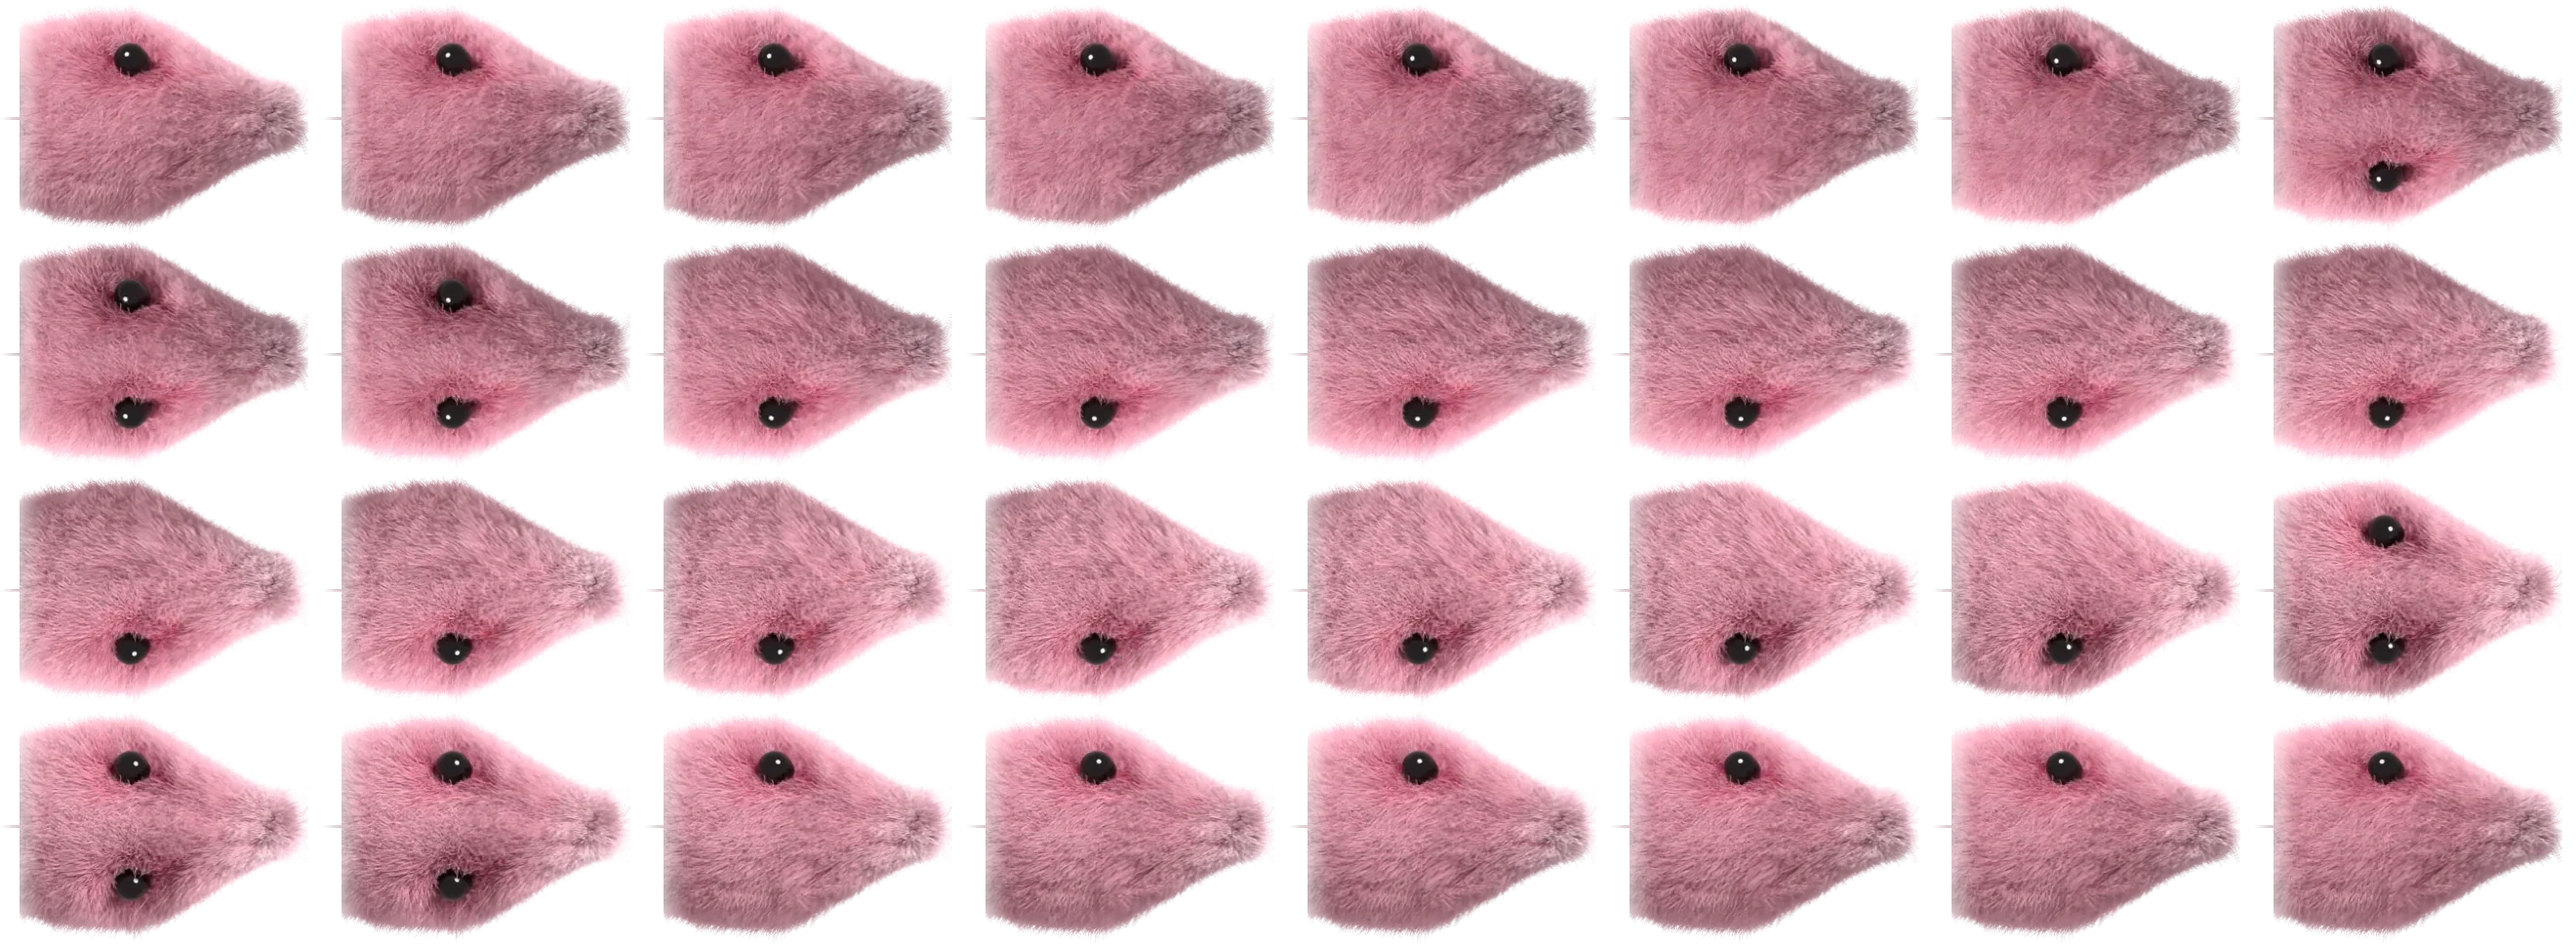
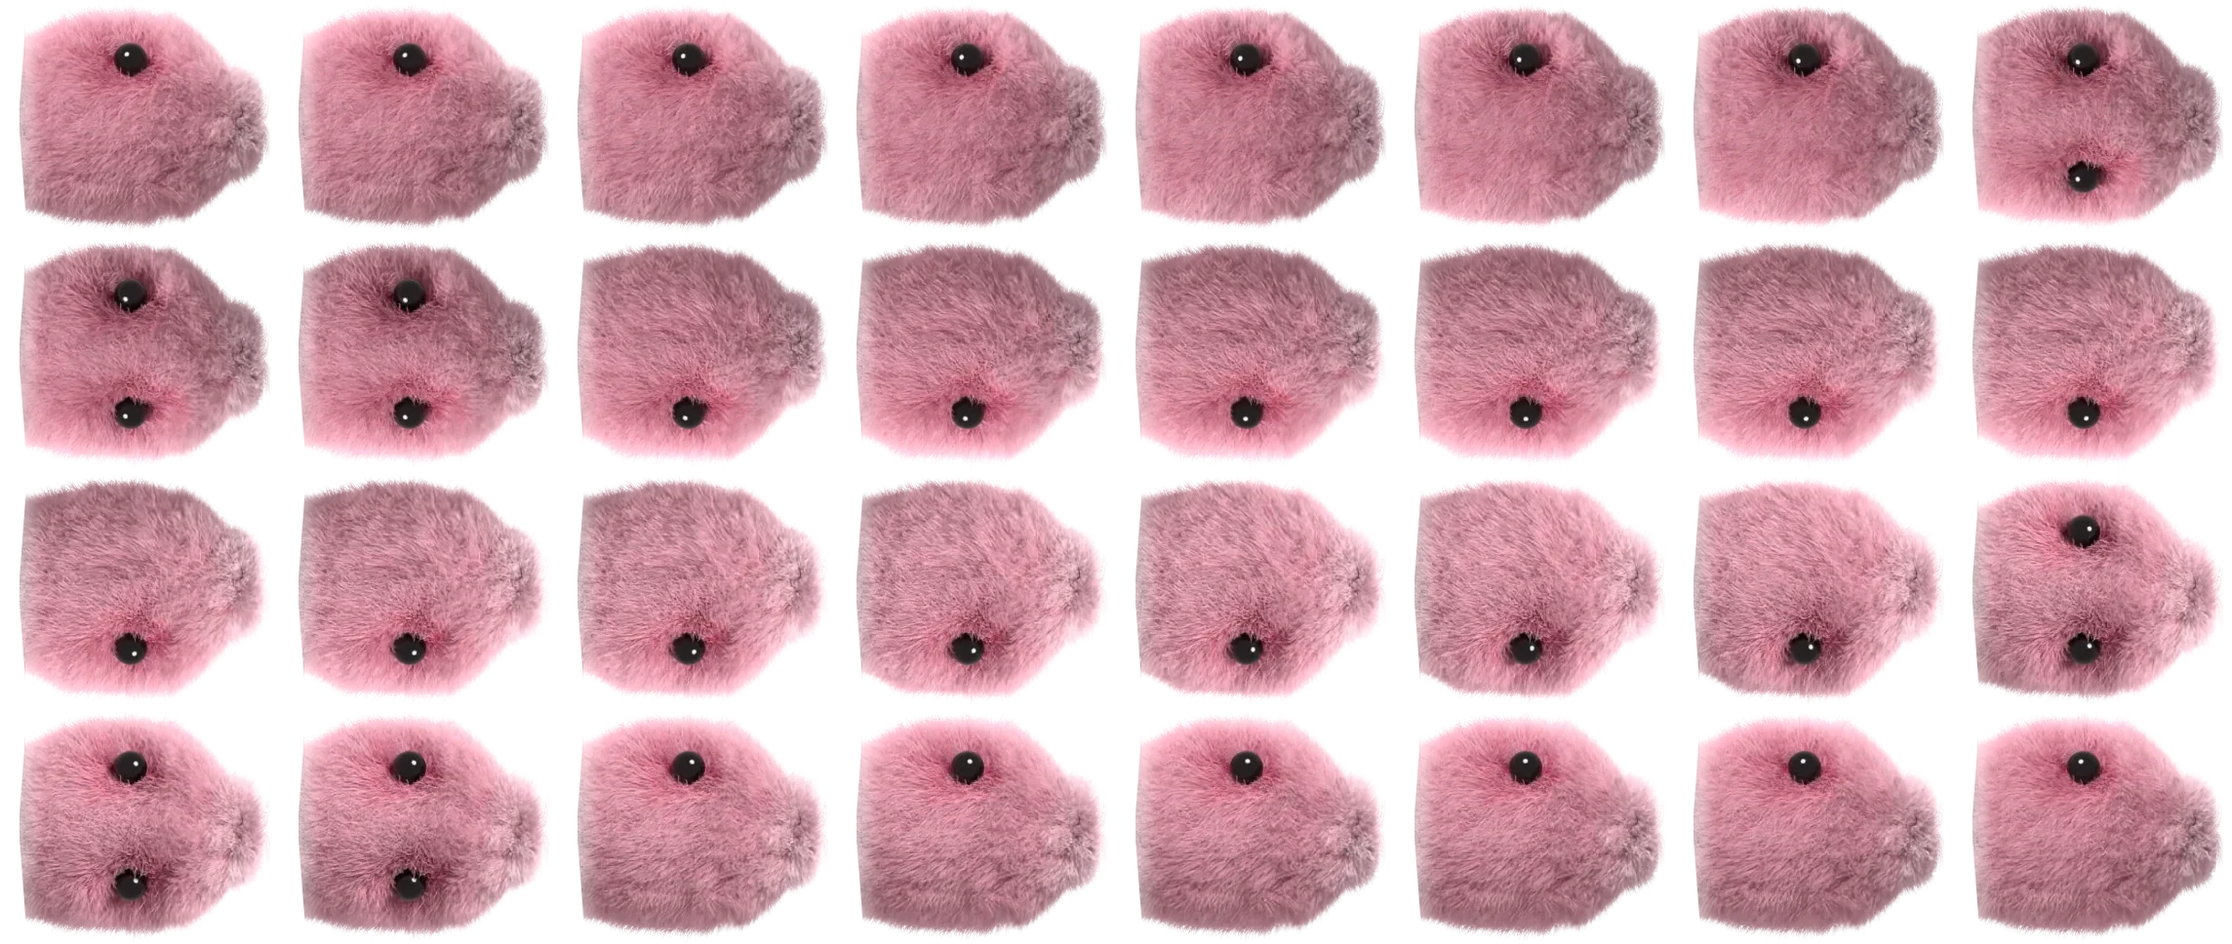
Snake head: follow the client sketch (flat brow, blunt rounded snout, flat jaw)
dev/head-reshape.py now maps each column's top / bottom fur edge onto the
sketched silhouette: the eye side is a flat brow that rolls into a straight slope,
the snout is blunt with rounded corners a little below the middle, the jaw stays
almost flat, the back of the head is cut at a slant. The eye region is untouched.

Claude-Session: https://claude.ai/code/session_01EYk6bVEfQ7rUorNg84s8tz

Changed region(s): [[0.0, 0.0, 1.0, 0.9917]]

diff --git a/dev/head-reshape.py b/dev/head-reshape.py
@@ -1,11 +1,15 @@
 #!/usr/bin/env python3
-"""Reshape the plush snake head atlas: egg -> snake head (wide temples, long tapered rounded snout).
+"""Reshape the plush snake head atlas from the Blender egg to the client's head shape.
 
     python3 dev/head-reshape.py            # dev/snake-src/head-egg.webp -> assets/img/snake/head.webp (+ manifest)
 
-The Blender atlas (head v2) has an egg-shaped head. Each cell is warped in 2D (sprite space, x forward, origin =
-head point): the back and the eye region stay as rendered; ahead of the eye the head is stretched forward and
-narrowed toward a rounded snout. Fur, lighting and the baked eye are kept. Premultiplied bilinear sampling.
+Target silhouette (client sketch over the egg cell + the plush photo), side view, x forward:
+  - top (the eye side): a flat brow that slopes down to the snout; the back of the head is cut at a slant;
+  - snout: blunt, rounded corners, a little below the middle;
+  - bottom (jaw): almost flat, rising only near the snout.
+Each atlas cell is warped column by column: the source column's top/bottom fur edges are mapped onto the target
+edges (the eye side is known from the manifest, so the shape is the same whichever way the head is lit).
+Fur, lighting and the baked eye are kept. Premultiplied bilinear sampling.
 """
 import json
 import os
@@ -18,13 +22,55 @@ SRC = os.path.join(ROOT, 'dev', 'snake-src', 'head-egg.webp')
 OUT = os.path.join(ROOT, 'assets', 'img', 'snake', 'head.webp')
 MAN = os.path.join(ROOT, 'assets', 'img', 'snake', 'manifest.json')
 
-# shape, in body radii R (incl. fur), x forward from the head point
-KEEP = 0.45       # untouched up to here (temples + eye at x ~0.33)
-NECK_X = -0.9     # from here back: narrow toward the neck
-NECK_HW = 1.42    # half-width at the back edge of the head (body + fur ~ this)
-TAPER_TO = 2.55   # straight taper ends here...
-TIP_HW = 0.62     # ...at this half-width; then a round cap
-TIP = TAPER_TO + TIP_HW
+# silhouette in body radii R (incl. fur); "top" = the eye side, values are distances from the head axis
+FRONT = 2.45       # snout front
+CORNER = 0.55      # snout corner radius
+IDENT = (-0.75, 0.75)   # columns kept exactly as rendered (the eye sits at x ~0.33)
+
+
+def lerp(a, b, t):
+    return a + (b - a) * t
+
+
+def ease(t):
+    # a brow that rolls into the slope (no knee)
+    t = min(1.0, max(0.0, t))
+    return t * t * 0.45 + t * 0.55   # soft start only: the slope runs straight into the rounded snout
+
+
+def top_edge(x, src):
+    """target top half-height at x (src = rendered half-height at the same source column)."""
+    if IDENT[0] <= x <= IDENT[1]:
+        return src
+    if x < IDENT[0]:                                  # slanted back of the head (sketch: top-left corner cut)
+        t = min(1.0, (IDENT[0] - x) / 0.75)
+        return lerp(src, min(src, 1.25), t)
+    # brow: flat, then a straight slope down to the snout top
+    flat_to, slope_to, h0, h1 = 0.95, FRONT - CORNER, 1.70, 0.86
+    if x <= flat_to:
+        return lerp(src, h0, (x - IDENT[1]) / (flat_to - IDENT[1]))
+    return lerp(h0, h1, ease((x - flat_to) / (slope_to - flat_to)))
+
+
+def bottom_edge(x, src):
+    if IDENT[0] <= x <= IDENT[1]:
+        return src
+    if x < IDENT[0]:
+        t = min(1.0, (IDENT[0] - x) / 0.75)
+        return lerp(src, min(src, 1.45), t)
+    flat_to, slope_to, h0, h1 = 1.15, FRONT - CORNER, 1.62, 1.02   # jaw: nearly flat, rises near the snout
+    if x <= flat_to:
+        return lerp(src, h0, (x - IDENT[1]) / (flat_to - IDENT[1]))
+    return lerp(h0, h1, ease((x - flat_to) / (slope_to - flat_to)))
+
+
+def corner_cut(x):
+    """how much the rounded snout corners pull both edges in near the front."""
+    x0 = FRONT - CORNER
+    if x <= x0:
+        return 0.0
+    d = min(CORNER, x - x0)
+    return CORNER - np.sqrt(CORNER * CORNER - d * d)
 
 
 def main():
@@ -34,71 +80,73 @@ def main():
         os.makedirs(os.path.dirname(SRC), exist_ok=True)
         Image.open(OUT).save(SRC, lossless=True)
     src = np.asarray(Image.open(SRC).convert('RGBA')).astype(np.float32) / 255.0
-    w, h = H['cell']
+    w, h = 271, 242                                   # the Blender cell (head v2)
     ox, oy = H['origin']
     cols, n = H['cols'], H['buckets']
     R = float(H['ref_R'])
     rows = (n + cols - 1) // cols
-    w2 = int(np.ceil(ox + (TIP + 0.22) * R))       # new cell width (longer snout)
+    w2 = int(np.ceil(ox + (FRONT + 0.25) * R))
+    per = (H.get('eye') or {}).get('per_bucket') or [[0]] * n
 
     out = np.zeros((rows * h, cols * w2, 4), np.float32)
-    ys, xs = np.mgrid[0:h, 0:w2].astype(np.float32)
-    X = (xs - ox) / R
-    Y = (ys - oy) / R
-
     for b in range(n):
         cx, cy = (b % cols) * w, (b // cols) * h
         cell = src[cy:cy + h, cx:cx + w].copy()
-        cell[..., :3] *= cell[..., 3:4]                      # premultiply
+        cell[..., :3] *= cell[..., 3:4]                   # premultiply
         al = cell[..., 3]
-        # source half-width per column (alpha > .5), smoothed
-        hw = np.zeros(w, np.float32)
+        up = -1.0 if per[b][0] == 0 else 1.0             # sign of the eye side (local y); two-eye cells: -y
+        top_s = np.zeros(w); bot_s = np.zeros(w); ok = np.zeros(w, bool)
         for x in range(w):
             c = np.where(al[:, x] > 0.5)[0]
-            hw[x] = (c.max() - c.min()) / 2 / R if len(c) else 0
-        hw = np.convolve(hw, np.ones(7) / 7, mode='same')
-        srcTip = (np.max(np.where(hw > 0.05)[0]) - ox) / R
-        # forward stretch: [KEEP, TIP] <- [KEEP, srcTip]
-        k = (srcTip - KEEP) / (TIP - KEEP)
-        SX = np.where(X > KEEP, KEEP + (X - KEEP) * k, X)
-        # target half-width along x
-        t = np.clip((X - KEEP) / (TAPER_TO - KEEP), 0, 1)
-        hw_keep = np.interp(SX * R + ox, np.arange(w), hw)
-        tgt = np.where(X <= KEEP, hw_keep, 0)
-        hw_at_keep = float(np.interp(KEEP * R + ox, np.arange(w), hw))
-        lin = hw_at_keep + (TIP_HW - hw_at_keep) * (t * t * (3 - 2 * t) * 0.35 + t * 0.65)
-        tgt = np.where((X > KEEP) & (X <= TAPER_TO), lin, tgt)
-        cap = np.sqrt(np.clip(TIP_HW ** 2 - (X - TAPER_TO) ** 2, 0, None))
-        tgt = np.where(X > TAPER_TO, cap, tgt)
-        # neck: narrow the back toward the body width
-        tn = np.clip((NECK_X - X) / (NECK_X - (-1.6)), 0, 1)
-        tgt = np.where(X < NECK_X, hw_keep * (1 - tn) + np.minimum(hw_keep, NECK_HW) * tn, tgt)
-        src_hw = np.maximum(np.interp(SX * R + ox, np.arange(w), hw), 0.05)
-        s = np.where(X <= KEEP, np.where(X < NECK_X, tgt / src_hw, 1.0), tgt / src_hw)
-        s = np.clip(s, 0.02, 1.2)
-        SY = Y / s
-        px = SX * R + ox
-        py = SY * R + oy
-        # bilinear sample (outside = transparent)
-        x0 = np.floor(px).astype(int); y0 = np.floor(py).astype(int)
-        fx = (px - x0)[..., None]; fy = (py - y0)[..., None]
-        def at(xx, yy):
-            ok = (xx >= 0) & (xx < w) & (yy >= 0) & (yy < h)
-            v = np.zeros(px.shape + (4,), np.float32)
-            v[ok] = cell[yy[ok], xx[ok]]
-            return v
-        v = (at(x0, y0) * (1 - fx) * (1 - fy) + at(x0 + 1, y0) * fx * (1 - fy) +
-             at(x0, y0 + 1) * (1 - fx) * fy + at(x0 + 1, y0 + 1) * fx * fy)
-        # beyond the rounded tip nothing
-        v[(X > TIP + 0.25)] = 0
-        a = v[..., 3:4]
-        v[..., :3] = np.where(a > 1e-4, v[..., :3] / np.maximum(a, 1e-4), 0)
-        out[(b // cols) * h:(b // cols + 1) * h, (b % cols) * w2:(b % cols + 1) * w2] = v
+            if len(c):
+                ok[x] = True
+                lo, hi = (c.min() - oy) / R, (c.max() - oy) / R          # y down
+                top_s[x], bot_s[x] = (-lo, hi) if up < 0 else (hi, -lo)  # distances on the eye / jaw side
+        k = np.ones(7) / 7
+        top_s = np.convolve(top_s, k, 'same'); bot_s = np.convolve(bot_s, k, 'same')
+        src_front = (np.max(np.where(ok)[0]) - ox) / R - 0.05
+        xs_src = (np.arange(w) - ox) / R
+
+        res = np.zeros((h, w2, 4), np.float32)
+        for X in range(w2):
+            x = (X - ox) / R
+            if x > FRONT + 0.2:
+                continue
+            # x: identity up to the eye region, then the snout section maps onto the source front
+            sx = x if x <= IDENT[1] else IDENT[1] + (x - IDENT[1]) * (src_front - IDENT[1]) / (FRONT - IDENT[1])
+            ts = float(np.interp(sx, xs_src, top_s)); bs = float(np.interp(sx, xs_src, bot_s))
+            if ts + bs < 0.1:
+                continue
+            cc = corner_cut(x)
+            tt = max(0.05, top_edge(x, ts) - cc); bt = max(0.05, bottom_edge(x, bs) - cc)
+            # map target [-tt, bt] (eye side negative) onto source [-ts, bs], linearly
+            Y = (np.arange(h) - oy) / R * (-up)          # +: jaw side, -: eye side
+            SYs = -ts + (Y + tt) * (ts + bs) / (tt + bt)
+            py = SYs * (-up) * R + oy
+            px = sx * R + ox
+            x0 = int(np.floor(px)); fx = px - x0
+            y0 = np.floor(py).astype(int); fy = (py - y0)[:, None]
+
+            def at(xx, yy):
+                v = np.zeros((h, 4), np.float32)
+                m = (yy >= 0) & (yy < h) & (0 <= xx < w)
+                if 0 <= xx < w:
+                    v[m] = cell[yy[m], xx]
+                return v
+            col = ((at(x0, y0) * (1 - fy) + at(x0, y0 + 1) * fy) * (1 - fx) +
+                   (at(x0 + 1, y0) * (1 - fy) + at(x0 + 1, y0 + 1) * fy) * fx)
+            # keep fur fringe only a little beyond the target edges
+            d_out = np.maximum(-Y - tt, Y - bt)
+            col *= np.clip(1 - d_out / 0.22, 0, 1)[:, None]
+            res[:, X] = col
+        a = res[..., 3:4]
+        res[..., :3] = np.where(a > 1e-4, res[..., :3] / np.maximum(a, 1e-4), 0)
+        out[(b // cols) * h:(b // cols + 1) * h, (b % cols) * w2:(b % cols + 1) * w2] = res
 
     Image.fromarray(np.clip(out * 255 + 0.5, 0, 255).astype(np.uint8), 'RGBA').save(OUT, quality=88, method=6)
     H['cell'] = [w2, h]
-    H['shape'] = {'reshaped': 'dev/head-reshape.py', 'tip_R': TIP, 'tip_halfwidth_R': TIP_HW, 'keep_R': KEEP}
-    H['tongue_base_R'] = [round(TIP - 0.35, 2), 0.0]
+    H['shape'] = {'reshaped': 'dev/head-reshape.py', 'front_R': FRONT, 'corner_R': CORNER}
+    H['tongue_base_R'] = [round(FRONT - 0.3, 2), 0.0]
     H.pop('silhouette', None)
     man['bytes']['head'] = os.path.getsize(OUT)
     json.dump(man, open(MAN, 'w'), indent=1)
